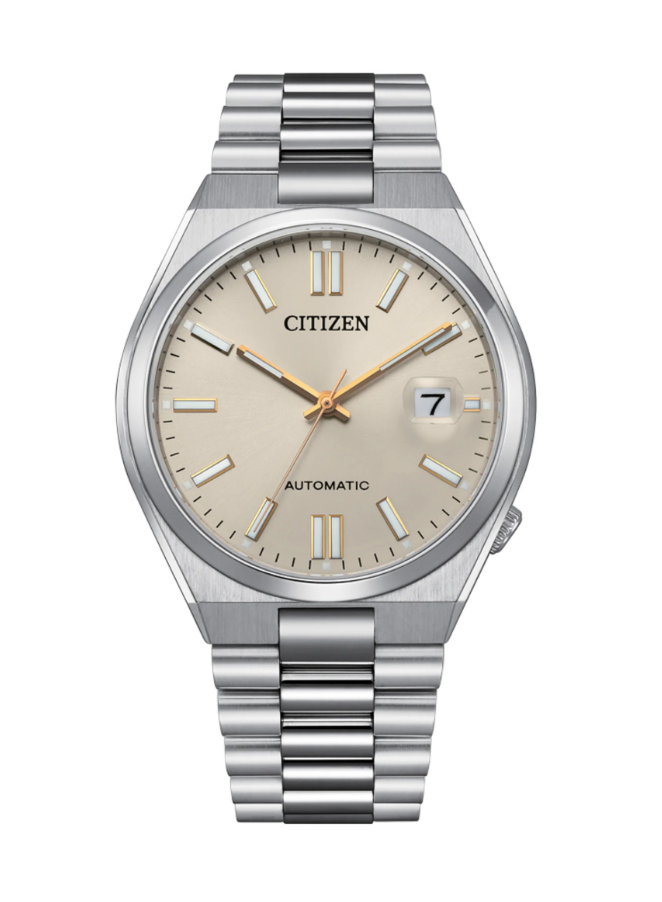
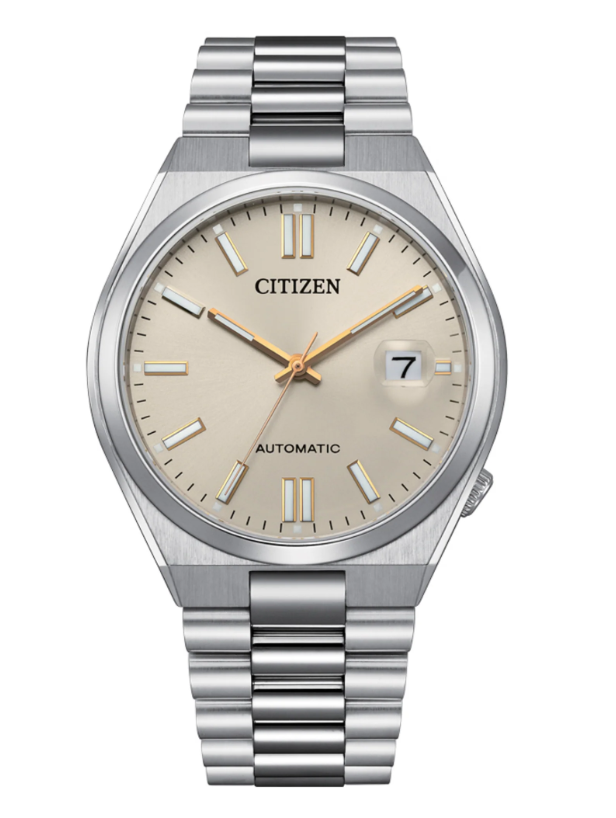
New watches pics

Changed region(s): [[0.1234, 0.0306, 0.8328, 0.978]]

diff --git a/templates/watches.html b/templates/watches.html
@@ -992,7 +992,7 @@
             <div class="sneaker-card watch-card">
                 <span class="badge badge-return">RETURN</span>
                 <!-- Imagen Principal -->
-                <img src="../imagenes/watches/1514012.jpg" alt="Boss Ace Carnation" loading="lazy">
+                <img src="../imagenes/watches/1514012.png" alt="Boss Ace Carnation" loading="lazy">
                 
                 <!-- Contenido de la tarjeta -->
                 <div class="sneaker-info watch-info">
